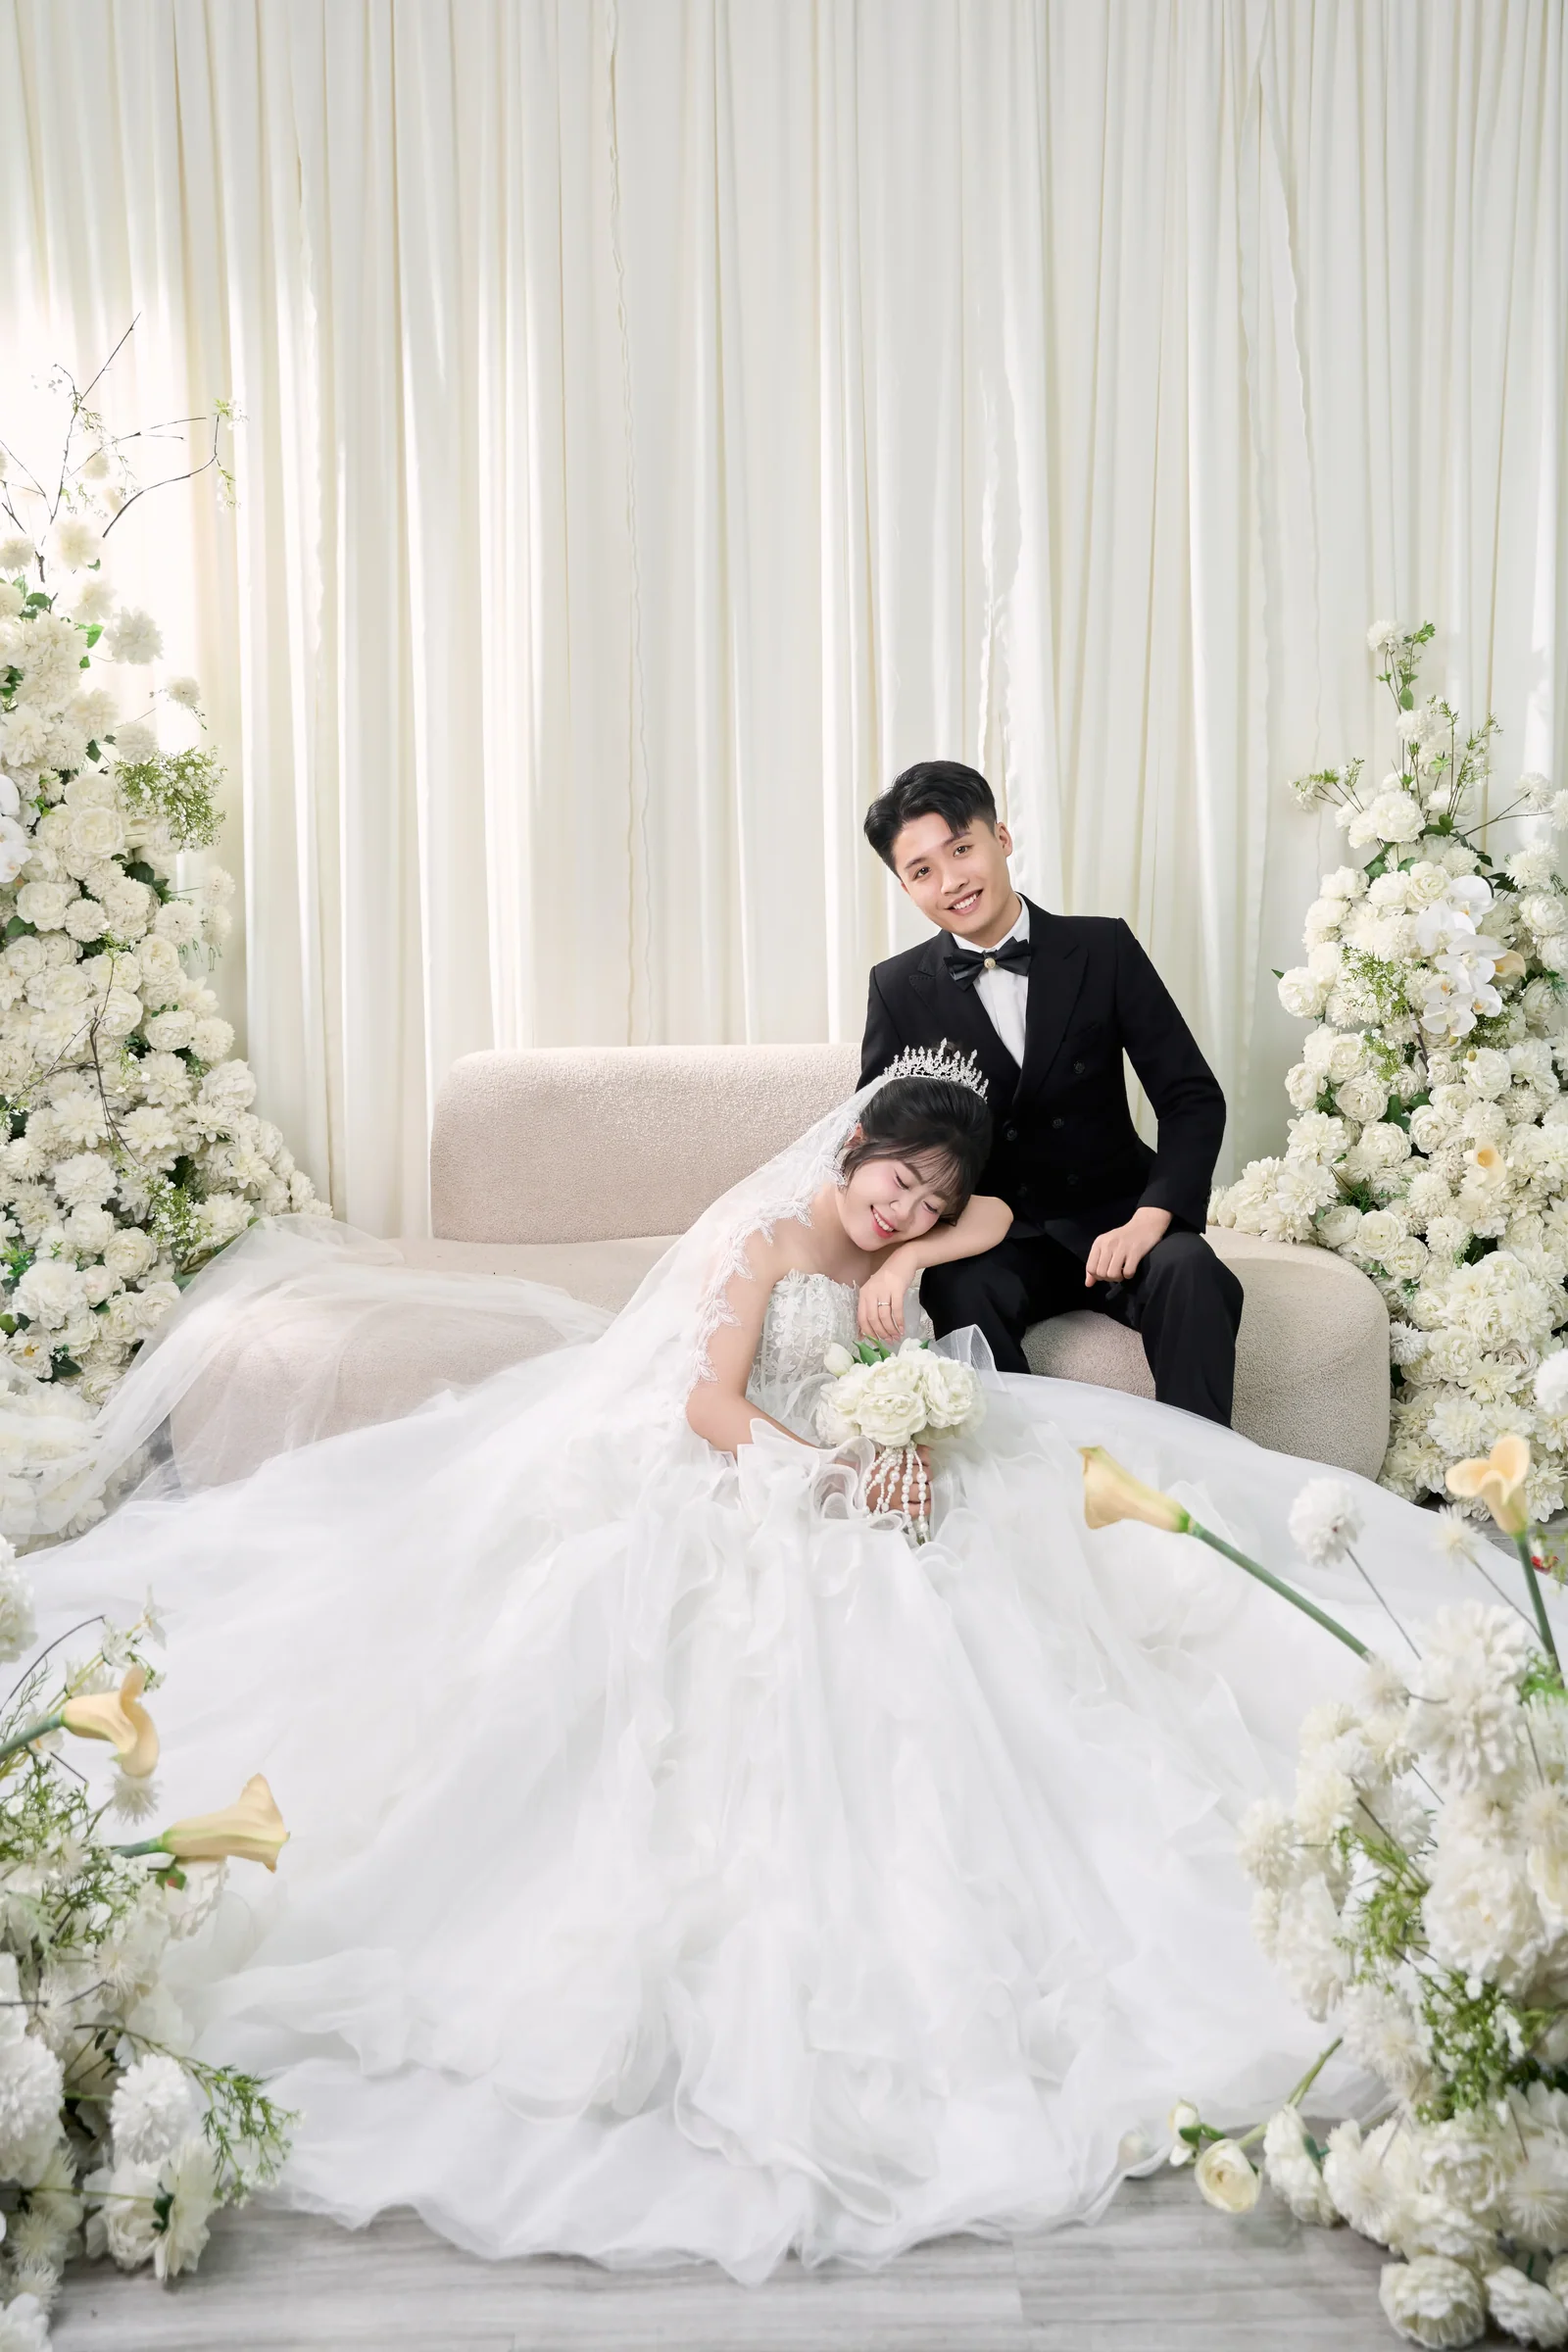
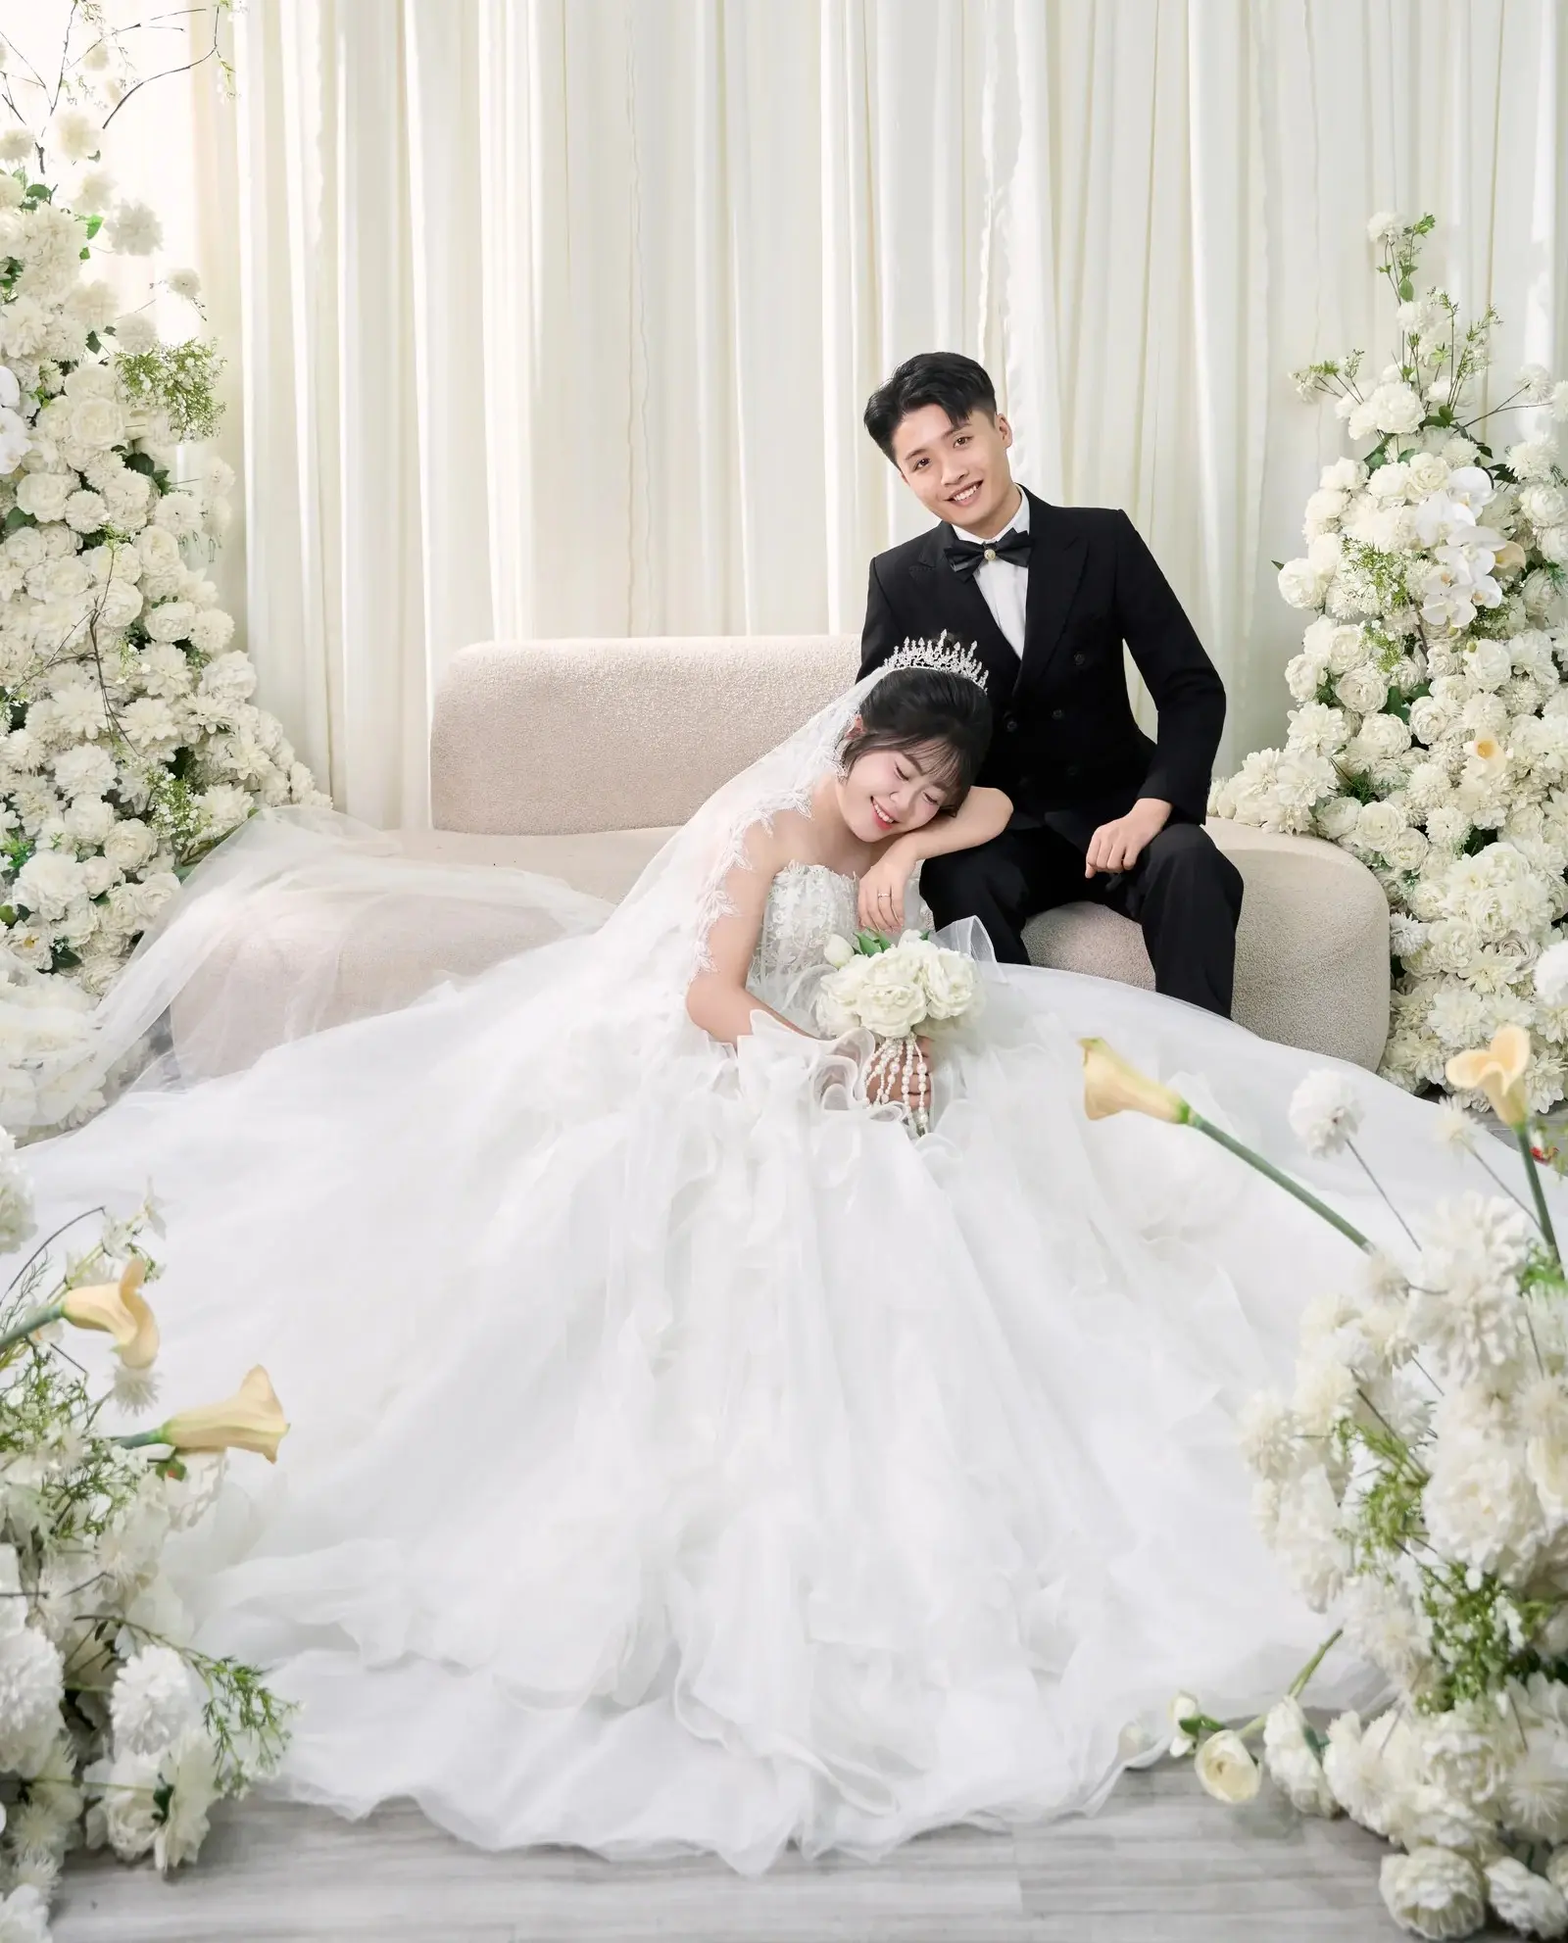
333

diff --git a/nhagai.html b/nhagai.html
@@ -7217,7 +7217,7 @@ function applyEventDetails(){
   setText('ticketCode',EVENT.ticketCode+' · LOVE LETTER');
   setText('ticketDate',EVENT.dateDot);
   setText('ticketTime',displayTime);
-  setText('dateRoomText',`${EVENT.weekday}, ${EVENT.dateSlash} · ${displayTime} (âm lịch ${EVENT.lunar}). Tụi mình rất mong được đón bạn đến chung vui! ♡`);
+  setText('dateRoomText',` Tụi mình rất mong được đón bạn đến chung vui! ♡`);
   setText('groomEventDate','Chủ Nhật, 29/11/2026 · 21/10 âm lịch');
   setText('groomEventTime','Đón khách lúc 10:00 sáng');
   setText('brideEventDate',`${EVENT.weekday}, ${EVENT.dateSlash} · ${EVENT.lunar.slice(0,5)} âm lịch`);
